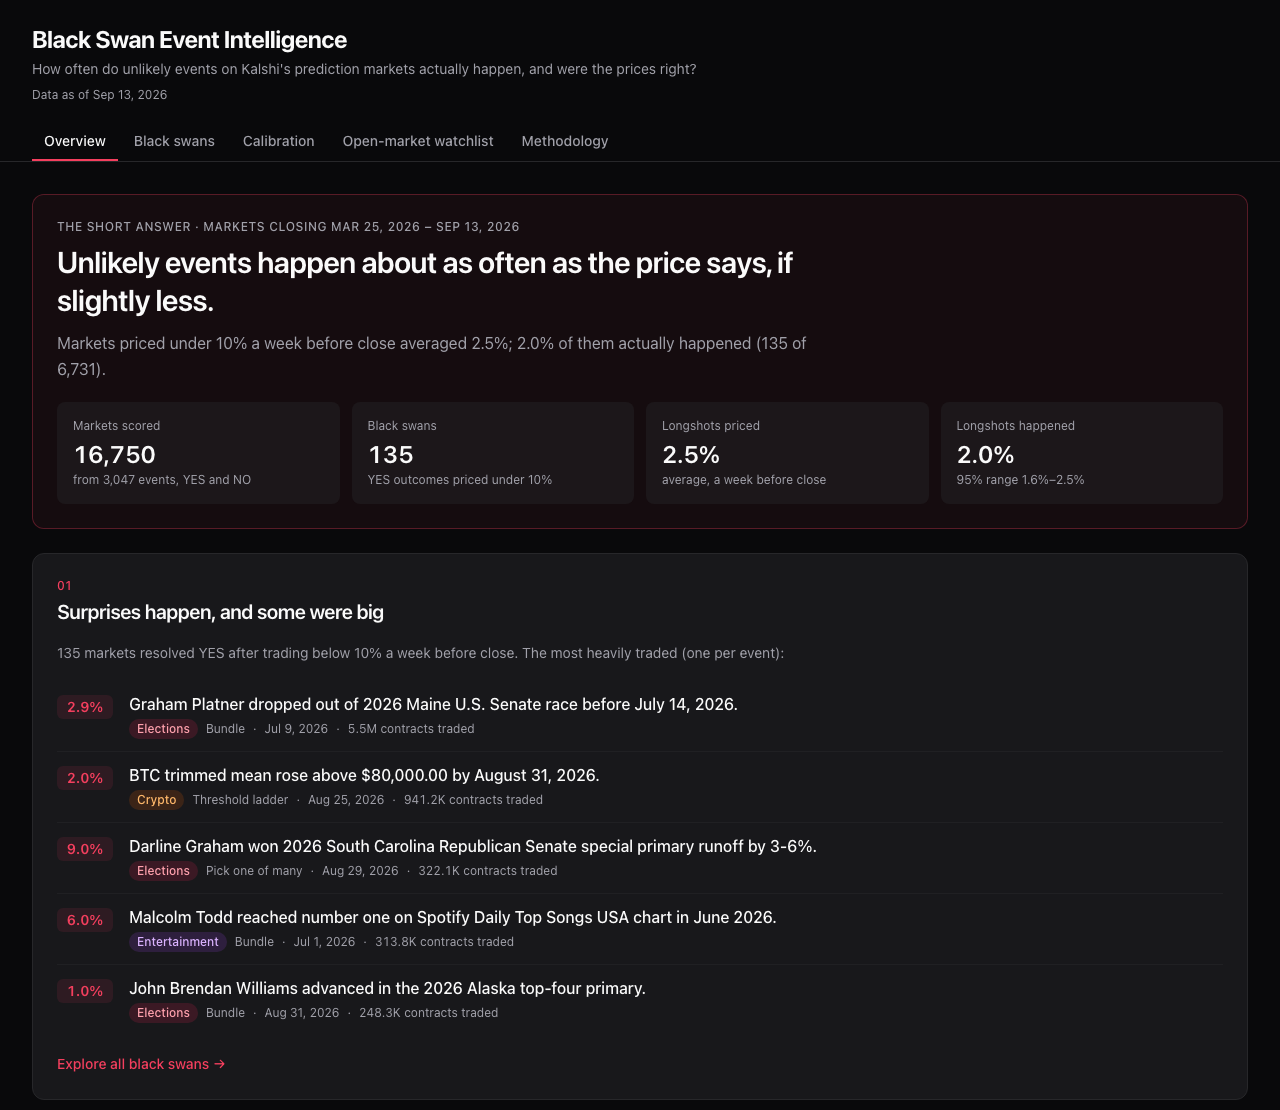
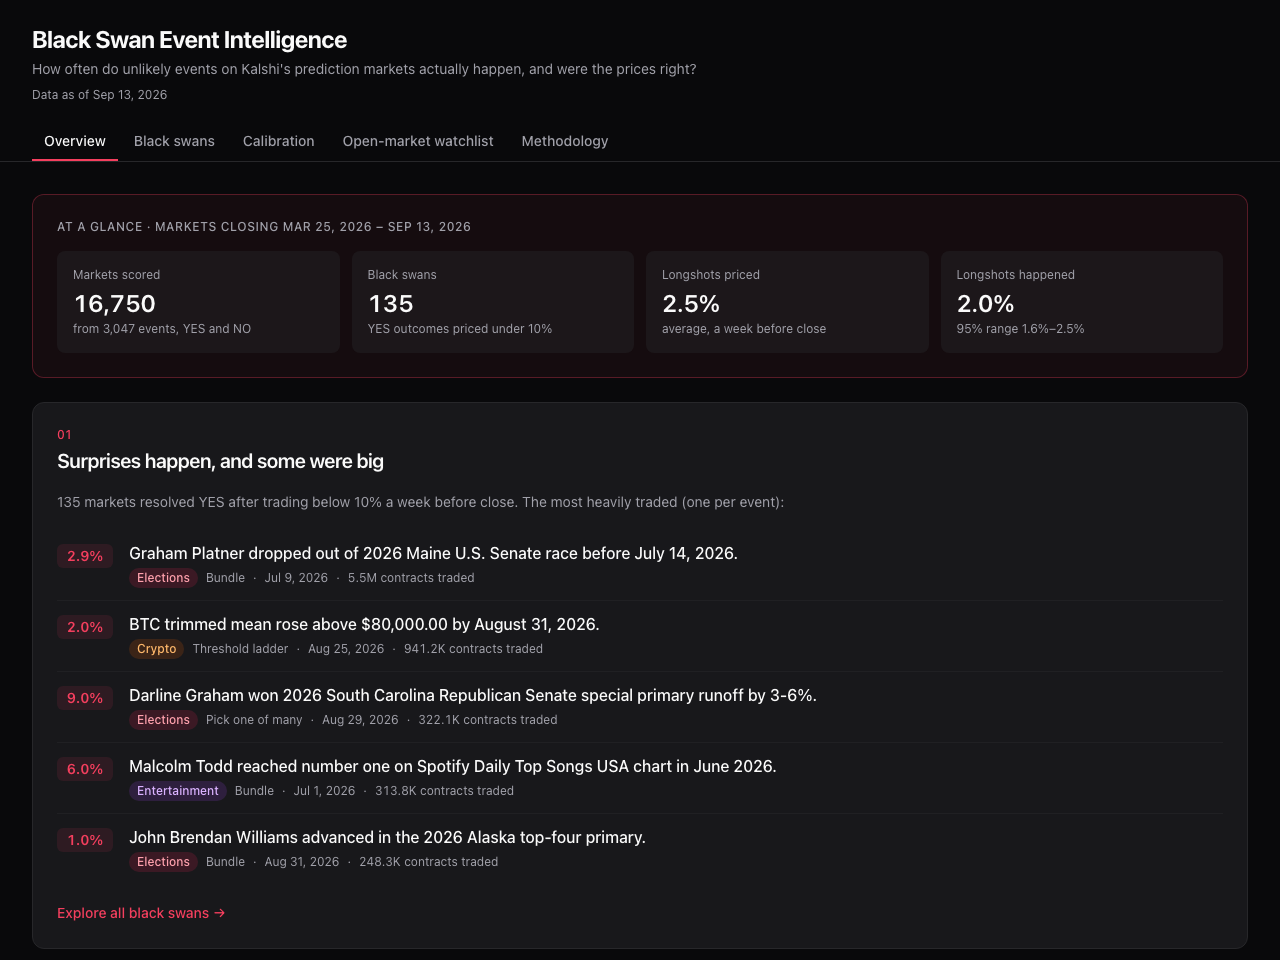
Replace the verdict headline with an at-a-glance summary
A one-line verdict couldn't carry the nuance of the findings, so the
overview now opens with the key numbers and lets the sections explain.

diff --git a/frontend/src/lib/story.test.ts b/frontend/src/lib/story.test.ts
@@ -3,7 +3,7 @@ import type { BlackSwan, Calibration, CalibrationBucket, CalibrationCurve, Group
 import {
   formatScope,
   gapRows,
-  longshotHeadline,
+  longshotVerdict,
   negativeShare,
   notableSegments,
   robustness,
@@ -48,19 +48,14 @@ describe("gapRows", () => {
   });
 });
 
-describe("longshotHeadline", () => {
-  it("says longshots happened less often when the range sits below the price", () => {
-    const h = longshotHeadline(calibration({ overall: curve(stats({ mean_price: 0.028, rate: 0.022, ci_low: 0.018, ci_high: 0.027, yes: 151, n: 6732 })) }));
-    expect(h.verdict).toBe("overpriced");
-    expect(h.title).toMatch(/less often/);
-    expect(h.detail).toContain("151 of 6,732");
-    expect(h.ratio).toBeCloseTo(0.786, 2);
-  });
-
-  it("adapts the story when the data changes", () => {
-    expect(longshotHeadline(calibration()).title).toMatch(/about as often/);
-    expect(longshotHeadline(calibration({ overall: curve(stats({ rate: 0.09, ci_low: 0.07, ci_high: 0.11 })) })).title).toMatch(/more often/);
-    expect(longshotHeadline(calibration({ overall: curve(stats({ n: 5 })) })).title).toMatch(/Not enough/);
+describe("longshotVerdict", () => {
+  it("judges longshots from the overall curve", () => {
+    const v = longshotVerdict(calibration({ overall: curve(stats({ mean_price: 0.028, rate: 0.022, ci_low: 0.018, ci_high: 0.027 })) }));
+    expect(v).toMatchObject({ verdict: "overpriced", robust: true });
+    expect(v.ratio).toBeCloseTo(0.786, 2);
+    expect(longshotVerdict(calibration()).verdict).toBe("in_line");
+    expect(longshotVerdict(calibration({ overall: curve(stats({ rate: 0.09, ci_low: 0.07, ci_high: 0.11 })) })).verdict).toBe("underpriced");
+    expect(longshotVerdict(calibration({ overall: curve(stats({ n: 5 })) })).verdict).toBe("too_few");
   });
 });
 
@@ -152,7 +147,7 @@ describe("robustness", () => {
     expect(r.holds).toBe(true);
     expect(r.summary).toContain("0.5 pts above");
     expect(r.summary).toContain("consistent with the headline");
-    expect(longshotHeadline(cal)).toMatchObject({ robust: true, title: expect.stringMatching(/less often than the price says/) });
+    expect(longshotVerdict(cal)).toMatchObject({ verdict: "overpriced", robust: true });
   });
 
   it("softens the headline when the gap disappears on midpoints", () => {
@@ -164,9 +159,7 @@ describe("robustness", () => {
     expect(r.holds).toBe(false);
     expect(r.summary).toMatch(/while across all markets they happened less often than priced/);
     expect([r.belowTrade, r.groupsTrade, r.belowMid, r.groupsMid]).toEqual([2, 2, 1, 2]);
-    const h = longshotHeadline(cal);
-    expect(h.robust).toBe(false);
-    expect(h.title).toMatch(/about as often as the price says, if slightly less/);
+    expect(longshotVerdict(cal)).toMatchObject({ verdict: "overpriced", robust: false });
   });
 
   it("describes a negative premium and stays silent without enough quoted markets", () => {

diff --git a/frontend/src/components/OverviewSection.tsx b/frontend/src/components/OverviewSection.tsx
@@ -9,7 +9,7 @@ import { formatCompact, formatDate, formatPct } from "@/lib/format";
 import {
   gapRows,
   negativeShare,
-  longshotHeadline,
+  longshotVerdict,
   robustness,
   type Robustness,
   notableSegments,
@@ -114,7 +114,7 @@ export default function OverviewSection({ calibration, stats, swans, watchlist, 
     return <p className="rounded-xl border border-border bg-card p-8 text-center text-sm text-muted-foreground">Loading findings…</p>;
   }
 
-  const headline = longshotHeadline(calibration);
+  const headline = longshotVerdict(calibration);
   const ls = calibration.overall.longshots;
   const rows = gapRows(calibration.overall.buckets);
   const check = robustness(calibration);
@@ -131,16 +131,9 @@ export default function OverviewSection({ calibration, stats, swans, watchlist, 
     <div className="space-y-6">
       <section className="rounded-xl border border-accent/30 bg-accent/5 p-5 sm:p-6">
         <p className="text-xs font-medium uppercase tracking-wider text-muted-foreground">
-          The short answer{period && <> · markets closing {period}</>}
+          At a glance{period && <> · markets closing {period}</>}
         </p>
-        <h2 className="mt-2 max-w-3xl text-2xl sm:text-3xl font-semibold tracking-tight leading-tight">{headline.title}</h2>
-        <p className="mt-3 max-w-3xl text-muted-foreground leading-relaxed">
-          {headline.detail}
-          {headline.verdict === "overpriced" && headline.robust && headline.ratio != null && (
-            <> Buying cheap YES contracts paid out about <strong className="text-foreground">{headline.ratio.toFixed(1)}×</strong> as often as the price implied.</>
-          )}
-        </p>
-        <div className="mt-5 grid grid-cols-2 gap-3 lg:grid-cols-4">
+        <div className="mt-4 grid grid-cols-2 gap-3 lg:grid-cols-4">
           <Kpi label="Markets scored" value={calibration.overall.n.toLocaleString()} sub={`from ${calibration.overall.events.toLocaleString()} events, YES and NO`} />
           <Kpi label="Black swans" value={stats.total_black_swans.toLocaleString()} sub={`YES outcomes priced under ${formatPct(stats.threshold, 0)}`} />
           <Kpi label="Longshots priced" value={formatPct(ls.mean_price)} sub="average, a week before close" />

diff --git a/frontend/src/lib/story.ts b/frontend/src/lib/story.ts
@@ -51,39 +51,17 @@ export function negativeShare(rows: GapRow[]): number {
   return rows.length ? rows.filter((r) => r.gap < 0).length / rows.length : 0;
 }
 
-export interface Headline {
+export interface LongshotVerdict {
   verdict: Verdict;
   /** False when the verdict doesn't survive the bid/ask midpoint check. */
   robust: boolean;
   ratio: number | null;
-  title: string;
-  detail: string;
 }
 
-export function longshotHeadline(calibration: Calibration): Headline {
+export function longshotVerdict(calibration: Calibration): LongshotVerdict {
   const ls = calibration.overall.longshots;
-  const v = verdict(ls);
-  const r = ratio(ls);
-  const pct = (x: number | null) => (x == null ? "--" : `${(x * 100).toFixed(1)}%`);
-  const cutoff = `${Math.round(calibration.longshot_max_price * 100)}%`;
-  const detail =
-    `Markets priced under ${cutoff} a week before close averaged ${pct(ls.mean_price)}; ` +
-    `${pct(ls.rate)} of them actually happened (${ls.yes.toLocaleString()} of ${ls.n.toLocaleString()}).`;
   const check = robustness(calibration);
-  const robust = check ? check.holds : true;
-  const title =
-    v === "overpriced"
-      ? robust
-        ? "Unlikely events do happen, but less often than the price says."
-        : "Unlikely events happen about as often as the price says, if slightly less."
-      : v === "underpriced"
-        ? robust
-          ? "Unlikely events happen more often than the price says."
-          : "Unlikely events happen about as often as the price says, if slightly more."
-        : v === "in_line"
-          ? "Unlikely events happen about as often as the price says."
-          : "Not enough history yet to judge longshot prices.";
-  return { verdict: v, robust, ratio: r, title, detail };
+  return { verdict: verdict(ls), robust: check ? check.holds : true, ratio: ratio(ls) };
 }
 
 export interface StructureFinding {
